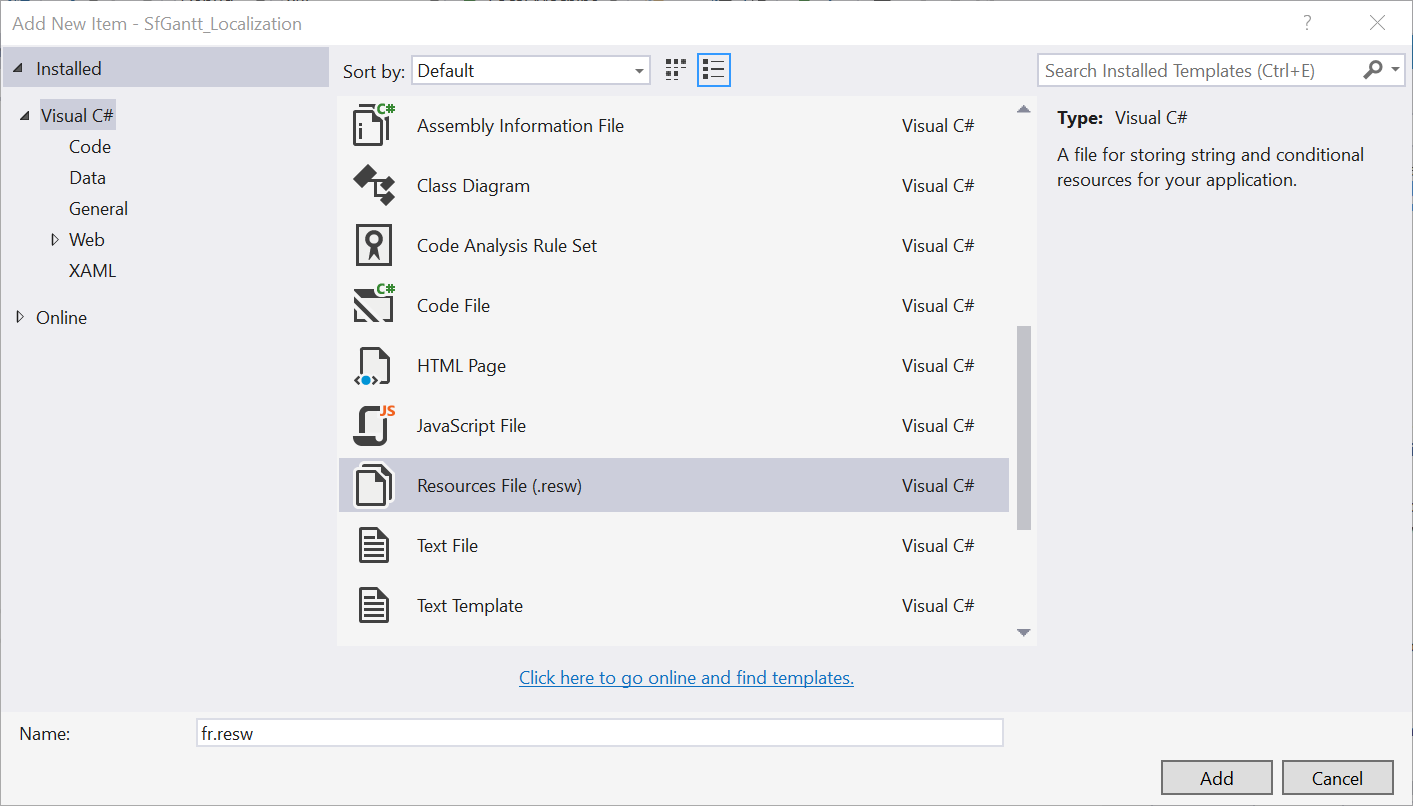
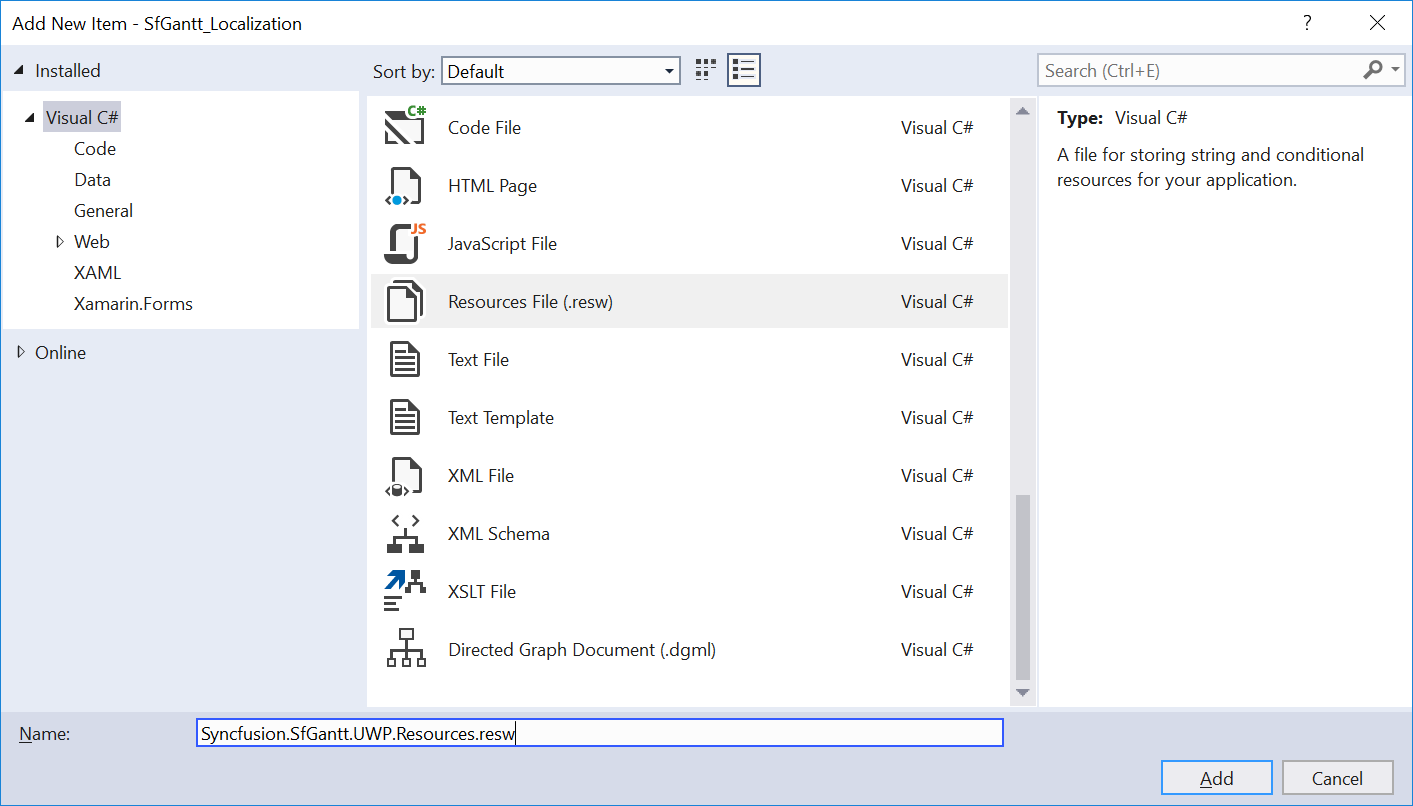
WPF-42074 : Merged Localization document in UWP SfGantt from development to hotfix.

diff --git a/uwp-toc.html b/uwp-toc.html
@@ -504,6 +504,7 @@
             <li><a href="/uwp/sfgantt/overview">Overview</a></li>
             <li><a href="/uwp/sfgantt/Getting-Started">Getting Started</a></li>
             <li><a href="/uwp/sfgantt/Timescale">Timescale</a></li>
+            <li><a href="/uwp/sfgantt/Localization">Localization</a></li>
             <li><a href="/uwp/sfgantt/Events">Events</a></li>
          </ul>
     </li>

diff --git a/uwp/SfGantt/Localization.md b/uwp/SfGantt/Localization.md
@@ -9,9 +9,9 @@ documentation: ug
 
 # Localization 
 
-Localization is the process of translating the application resources into different languages for the specific cultures. You can localize the SfGantt by adding resource file. Application culture can be changed by setting `PrimaryLanguageOverride` in the MainPage() constructor. 
+Localization is the process of translating the application resources into different languages for specific cultures. You can localize the SfGantt by adding a resource file. Application culture can be changed by setting the `PrimaryLanguageOverride` in the MainPage() constructor.
 
-In the below code example, culture is configured to French language.
+In the following code example, application culture is configured to French language.
 
 {% tabs %}
 {% highlight c# %}
@@ -24,20 +24,24 @@ public MainPage()
 {% endtabs %}
 
 
-To localize the SfGantt based on `PrimaryLanguageOverride` using resource files, follow the below steps: 
+To localize the SfGantt based on `PrimaryLanguageOverride` using resource files, use the following steps: 
 
-1.Right click the project, select **Add** and then **NewItem**.
+1.Right-click the project, click **Add**, and then click **NewFolder**, name the folder as **Resources**.
 
-2.In Add New Item  dialog, select the Resource File  and name the filename as **[culture name].resw**. The culture name that indicates the name of language and country. 
+2.Right-click the **Resources** folder, click **Add**, and then click **NewFolder**, name the folder as **[culture name]**. The culture name indicates name of language and country. 
 
-For example, you will have to give name as **fr.resw** for French culture.
- 
-3.The culture name that indicates the name of language and country. 
+For example, you will have to give name as **fr-FR** for French culture.
+
+3.Right-click the **[culture name]** folder, click **Add**, and then click **NewItem**.
+
+4.In the Add New Item dialog, click the Resource File, and name the filename as **Syncfusion.SfGantt.UWP.Resources.resw**.
 
 ![](Localization_images/AddResource.png)
 
-4. Add the Name/Value pair in Resource Designer of **fr.resw** file and change its corresponding value to corresponding culture.
+5.Add the Name/Value pair in Resource Designer of **Syncfusion.SfGantt.UWP.Resources.resw** file, and change its corresponding value to corresponding culture.
+
+You can get the SfGantt’s key from default resource [Syncfusion.SfGantt.UWP.Resources.resw](http://www.syncfusion.com/downloads/support/directtrac/general/ze/Syncfusion.SfGantt.UWP.Resources845531575.zip).
 
 ![](Localization_images/FinalOutput.png)
 
-You can download the sample for localization of Gantt from [here](http://www.syncfusion.com/downloads/support/directtrac/general/SFGANT~11958419239.ZIP)
+You can download the sample for localizing the Gantt from [here](http://www.syncfusion.com/downloads/support/directtrac/general/ze/SfGantt_Localization1607055000.zip)
